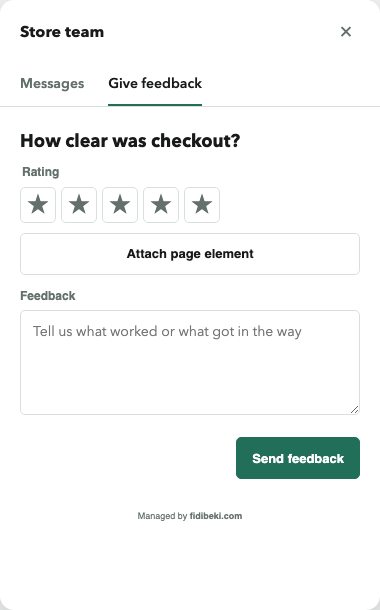
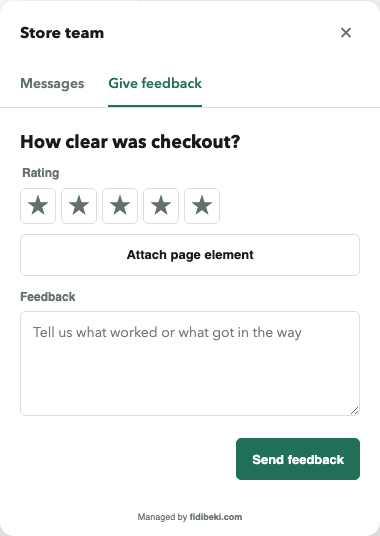
fix: size website feedback panel to its content (#180)

diff --git a/widget/tests/e2e/widget.spec.ts b/widget/tests/e2e/widget.spec.ts
@@ -2975,3 +2975,62 @@ for (const theme of ['light', 'dark'] as const) {
     await expect(chat.getByRole('button', { name: 'Forget this chat on this browser' })).toBeVisible()
   })
 }
+
+test('feedback panel grows with the complete form and shrinks after submission', async ({ page }) => {
+  await page.setViewportSize({ width: 1280, height: 1100 })
+  const rule: WidgetRule = {
+    ...browserRule, theme: 'dark', can_attach_screenshot: true,
+    ai_processing: { enabled: true, input_categories: ['feedback_text'], privacy_policy_url: 'https://example.test/privacy' },
+  }
+  const configuration = browserConfiguration(rule)
+  configuration.features.audio = true
+  const token = `11111111-1111-4111-8111-111111111111.${'a'.repeat(43)}`
+  await page.route('**/v1/widget/config*', route => route.fulfill({ json: { ...configuration, chat: { enabled: true, name: 'Store team' } } }))
+  await page.route('**/v1/widget/connected*', route => route.fulfill({ status: 204 }))
+  await page.route('**/v1/widget/chat/**', route => {
+    const path = new URL(route.request().url()).pathname
+    if (path.endsWith('/session')) return route.fulfill({ status: 201, json: { token, visitor_id: token.split('.')[0], expires_at: new Date(Date.now() + 86400000).toISOString() } })
+    if (path.endsWith('/conversation')) return route.fulfill({ json: { conversation: null, messages: [], has_more: false } })
+    if (path.endsWith('/events')) return route.fulfill({ contentType: 'text/event-stream', body: ': ready\n\n' })
+    return route.fulfill({ status: 204 })
+  })
+  await page.route('**/v1/feedback?*', route => route.fulfill({ status: 201, json: { feedback_id: 'content-height-feedback', attachments: [] } }))
+  await page.goto('/sample.html')
+  const chat = page.locator('#fidibeki-chat')
+  await chat.getByRole('button', { name: 'Messages & feedback', exact: true }).click()
+  const panel = chat.locator('section.panel').first()
+  const messageHeight = (await panel.boundingBox())!.height
+  await chat.getByRole('button', { name: 'Give feedback', exact: true }).click()
+  const feedback = chat.locator('[data-embedded-chat]')
+  await expect(feedback.getByRole('button', { name: 'Record audio' })).toBeVisible()
+  await expect(feedback.getByRole('button', { name: 'Capture screenshot' })).toBeVisible()
+  const field = feedback.getByRole('textbox', { name: 'Feedback', exact: true })
+  const initialHeight = (await panel.boundingBox())!.height
+  // A visitor can resize this textarea; the surrounding form must follow it.
+  await field.evaluate(element => { element.style.height = '320px' })
+  const expandedHeight = (await panel.boundingBox())!.height
+  expect(expandedHeight).toBeGreaterThan(initialHeight + 100)
+  expect(expandedHeight).toBeGreaterThan(messageHeight)
+  expect(await panel.evaluate(element => element.scrollHeight <= element.clientHeight + 1)).toBe(true)
+  await expect(chat.locator('.feedback')).toHaveCSS('overflow-y', 'visible')
+  await expect(feedback.getByRole('button', { name: 'Send feedback' })).toBeInViewport()
+  await expect(chat.getByRole('button', { name: 'Close conversation' })).toBeInViewport()
+  await panel.screenshot({ path: '../docs/evidence/website-chat-content-height-desktop.png', animations: 'disabled' })
+
+  await page.setViewportSize({ width: 390, height: 844 })
+  await field.evaluate(element => { element.style.height = '' })
+  expect(await panel.evaluate(element => element.scrollHeight <= element.clientHeight + 1)).toBe(true)
+  await expect(feedback.getByRole('button', { name: 'Send feedback' })).toBeInViewport()
+  await panel.screenshot({ path: '../docs/evidence/website-chat-content-height-mobile.png', animations: 'disabled' })
+  await page.setViewportSize({ width: 320, height: 420 })
+  await feedback.getByRole('button', { name: 'Send feedback' }).scrollIntoViewIfNeeded()
+  await expect(feedback.getByRole('button', { name: 'Send feedback' })).toBeInViewport()
+  await field.fill('The panel follows the form height.')
+  await feedback.getByRole('button', { name: 'Send feedback' }).click()
+  await expect(feedback.getByText('Your feedback was sent.', { exact: true })).toBeVisible()
+  expect((await panel.boundingBox())!.height).toBeLessThan(initialHeight)
+  await expect(chat.getByRole('button', { name: 'Close conversation' })).toBeInViewport()
+  await chat.getByRole('button', { name: 'Messages', exact: true }).click()
+  await page.setViewportSize({ width: 1280, height: 1100 })
+  expect((await panel.boundingBox())!.height).toBe(messageHeight)
+})

diff --git a/widget/src/chat-styles.ts b/widget/src/chat-styles.ts
@@ -21,6 +21,8 @@ button:focus-visible, textarea:focus-visible { outline: 2px solid var(--fb-fg); 
 .launcher svg { width: 21px; height: 21px; flex: none; }
 .badge { min-width: 20px; padding: 1px 6px; border-radius: 12px; background: var(--fb-bg); color: var(--fb-fg); font-size: 12px; text-align: center; }
 .panel { position: absolute; bottom: 58px; right: 0; width: 380px; height: min(620px, calc(100dvh - 110px - var(--fidibeki-chat-bottom-offset, 0px))); display: flex; flex-direction: column; background: var(--fb-bg); color: var(--fb-fg); border-radius: 14px; box-shadow: 0 12px 48px #0004; overflow: hidden; }
+:host([data-open=true][data-view=feedback]) .launcher { display: none; }
+:host([data-view=feedback]) .panel { bottom: 0; height: auto; max-height: calc(var(--viewport-height, 100dvh) - 40px - var(--fidibeki-chat-bottom-offset, 0px)); overflow-y: auto; overscroll-behavior: contain; }
 :host([data-side=left]) .panel, :host([data-side=left]) .preview { left: 0; right: auto; }
 .head { flex: none; padding: 12px 14px 10px 20px; display: flex; align-items: center; justify-content: space-between; gap: 12px; }
 .identity { display: flex; align-items: center; gap: 10px; min-width: 0; }
@@ -50,7 +52,7 @@ button:focus-visible, textarea:focus-visible { outline: 2px solid var(--fb-fg); 
 .link { border: 0; background: transparent; color: var(--action-ink); font-size: 12px; text-decoration: underline; text-underline-offset: 3px; padding: 10px; }
 .reset { flex: none; color: var(--fb-muted); padding: 12px 20px; }
 .notice { flex: none; font-size: 12px; color: var(--fb-muted); padding: 8px 20px; margin: 0; }
-.feedback { flex: 1; min-height: 0; overflow: auto; overscroll-behavior: contain; }
+.feedback { flex: none; overflow: visible; }
 .feedback-state { padding: 20px; color: var(--fb-muted); }
 .tools { display: flex; flex: none; justify-content: space-between; flex-wrap: wrap; padding: 0 10px; }
 .preview { position: absolute; right: 0; bottom: 58px; width: 310px; background: var(--fb-bg); color: var(--fb-fg); box-shadow: 0 6px 28px #0003; border-radius: 12px; padding: 16px; }
@@ -68,6 +70,7 @@ button:focus-visible, textarea:focus-visible { outline: 2px solid var(--fb-fg); 
   .badge { position: absolute; top: -4px; right: -4px; box-shadow: 0 2px 8px #0002; }
   :host([data-open=true]) .launcher { display: none; }
   .panel, :host([data-side=left]) .panel { position: fixed; left: 8px; right: 8px; width: auto; bottom: calc(var(--keyboard-inset, 0px) + max(8px, env(safe-area-inset-bottom))); height: min(620px, calc(var(--viewport-height, 100dvh) - 16px - env(safe-area-inset-top) - env(safe-area-inset-bottom))); }
+  :host([data-view=feedback]) .panel { bottom: calc(var(--keyboard-inset, 0px) + max(8px, env(safe-area-inset-bottom))); height: auto; max-height: calc(var(--viewport-height, 100dvh) - 16px - env(safe-area-inset-top) - env(safe-area-inset-bottom)); }
   .preview { max-width: calc(100vw - 24px); bottom: 64px; }
   .compose textarea { font-size: 16px; max-height: 80px; }
   .compose small { max-width: 16ch; }

diff --git a/widget/src/chat.ts b/widget/src/chat.ts
@@ -141,6 +141,7 @@ export function mountChat(options: ChatOptions) {
     node('.badge').textContent = String(unread); node('.badge').hidden = !unread
     panel.hidden = !open; launcher.setAttribute('aria-expanded', String(open))
     host.dataset.open = String(open)
+    host.dataset.view = tab
     node('.tab-messages').setAttribute('aria-pressed', String(tab === 'messages'))
     node('.tab-feedback').setAttribute('aria-pressed', String(tab === 'feedback'))
     messages.hidden = tab !== 'messages'; node('.tools').hidden = tab !== 'messages'; node('.feedback').hidden = tab !== 'feedback'

diff --git a/docs/website-chat-validation.md b/docs/website-chat-validation.md
@@ -60,6 +60,15 @@ Validation: 374 widget unit tests, 77 Chromium browser tests, type checking and 
 
 The design detector reported the intentionally hidden, configuration-populated logo and the pre-existing standalone widget accent border. The embedded feedback presentation removes that border. Rendered light/dark and desktop/mobile evidence was inspected directly.
 
+## Content-sized feedback follow-up
+
+Feedback now uses its natural content height instead of the chat transcript's 620px height. It can grow to the available viewport, including the area previously reserved for the launcher, and contracts when submission replaces the form with its confirmation. The feedback form has no inner scrolling region. Viewports shorter than the complete form use scrolling on the whole panel as an accessibility fallback.
+
+Browser regression coverage uses a form with rating, written feedback, page-element/audio/screenshot attachments and an AI-processing notice. It checks growth when the visitor resizes the textarea, no overflow when the form fits on desktop or mobile, access to submission at 320×420, contraction after submission and restoration of the message view's height.
+
+- [Expanded form on desktop](evidence/website-chat-content-height-desktop.png)
+- [Complete form on mobile](evidence/website-chat-content-height-mobile.png)
+
 ## Existing Linux test fixture correction
 
 The full backend CI gate twice failed `TestFFmpegExtractPosterSkipsTheFirstSecond` with `ETXTBSY` while every website-chat test passed. A Linux/ARM64 container reproduced 22 failures across 200 repeated FFmpeg test groups. The five tests wrote executable shell scripts and invoked them in parallel, matching the [Go write/exec descriptor race](https://github.com/golang/go/issues/22315). Those five fixture consumers now run serially; all argument/error assertions remain intact, with no production-code retry or skip. The corrected group passed 1,000 Linux repetitions and the complete backend CI gate.

diff --git a/docs/website-chat.md b/docs/website-chat.md
@@ -26,7 +26,7 @@ The browser stores only the opaque credential, not message transcripts. Website 
 
 ## Appearance and mobile placement
 
-Messages and feedback share one panel and the matching feedback rule's colors, logo, position and theme. The feedback tab has one scroll area and keeps the submission confirmation visible. The chat reset action appears in Messages.
+Messages and feedback share one panel and the matching feedback rule's colors, logo, position and theme. The feedback panel sizes itself to the complete form, grows when fields expand, and shrinks to the submission confirmation. The launcher is hidden while feedback is open so the panel can use that space. There is no separate scrolling area inside the feedback form; if the complete panel exceeds the visible screen, the panel itself scrolls to keep every control reachable. The chat reset action appears in Messages.
 
 On screens up to 600px wide, the launcher becomes a compact chat button and leaves 64px of space for a website's bottom navigation, plus the device safe area. Opening the panel hides the launcher; the panel follows the visible viewport when the keyboard opens. Sites with a different navigation height can set the additional bottom offset on their page:
 
